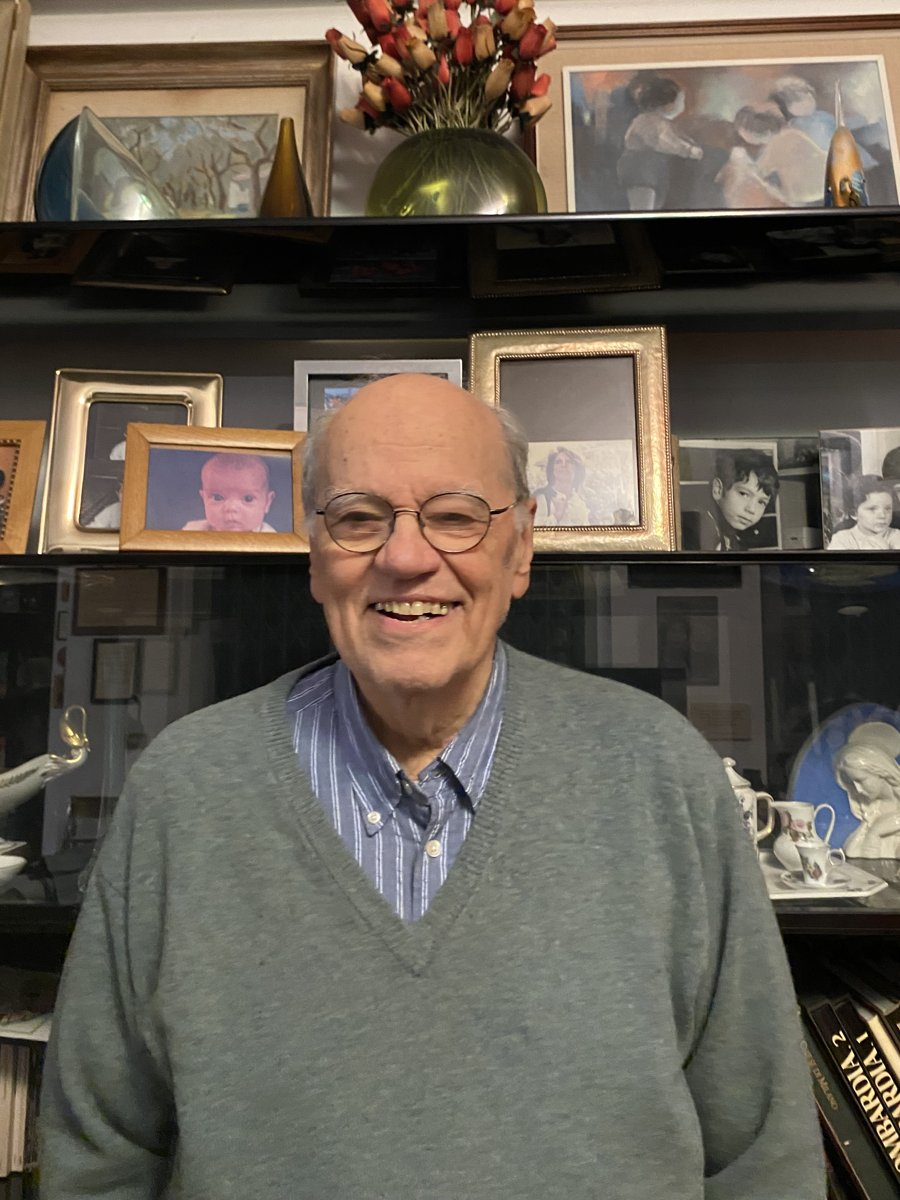
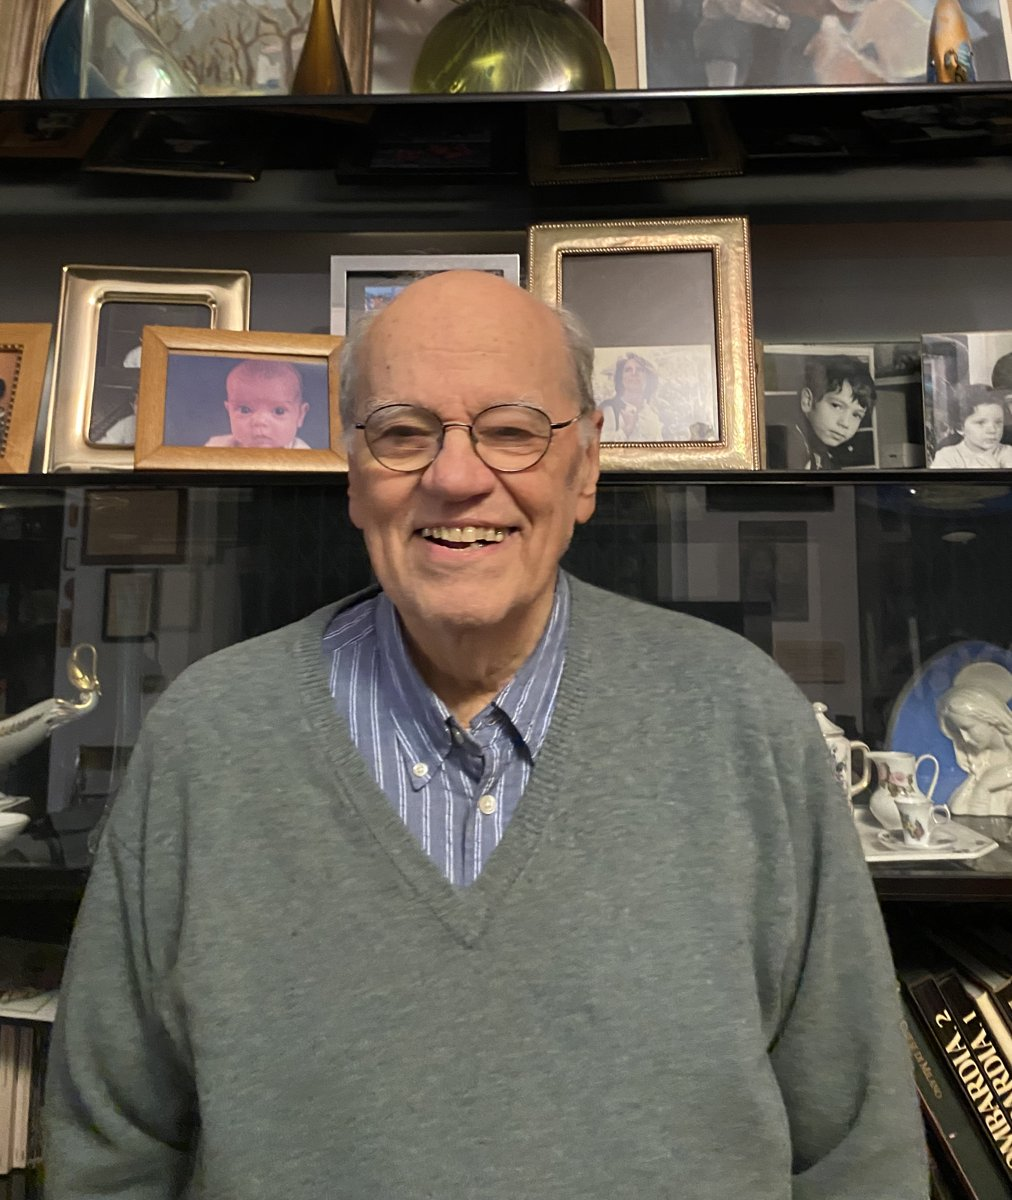
Move the present-day portrait beside the biography
Re-crop peppino-oggi.jpg a little higher to make it less bulky and lay
the biography out in two columns on desktop (text plus the framed
portrait alongside), stacking to one column on mobile.

diff --git a/index.html b/index.html
@@ -89,6 +89,7 @@
 
 <section id="biografia" class="reveal">
   <div class="sec-head"><div class="sec-label">Biografia</div><h2>Il racconto di una vita</h2></div>
+  <div class="bio-grid">
   <div class="bio">
     <p>Peppino Zola — all'anagrafe Giuseppe Roberto Mario — nasce a Viverone, nel Biellese, il 30 aprile 1939. Nel 1947 la famiglia si trasferisce a Milano, dove il padre Angelo è per anni capo barman al Principe di Savoia e presidente dell'associazione nazionale e internazionale dei barmen.</p>
     <p>Al Liceo Berchet, tra il 1955 e il 1958, incontra come insegnante di religione don Luigi Giussani: un incontro decisivo per tutta la vita, nell'appartenenza prima a Gioventù Studentesca e poi a Comunione e Liberazione. Nel 1963 si laurea in Giurisprudenza alla Statale di Milano con una tesi sulla Dichiarazione Universale dei Diritti dell'Uomo.</p>
@@ -97,9 +98,10 @@
     <p>Tra il 1999 e il 2001 presiede il collegio commissariale che guida l'Ente Fiera Milano nella sua transizione, avviando la riforma che porterà alla Fondazione Fiera Milano e al nuovo polo fieristico. Dal 2011 al 2014 è componente della sezione regionale di controllo della Corte dei conti per la Lombardia. Nel 2014, nonno di sette nipoti, fonda NONNI2.0. Nel 2026 pubblica «Carissimo don Gius» (Edizioni Ares).</p>
   </div>
   <figure class="portrait bio-portrait">
-    <img src="assets/img/peppino-oggi.jpg" alt="Peppino Zola oggi, sorridente nel suo studio tra le fotografie di famiglia" width="900" height="1200" loading="lazy">
+    <img src="assets/img/peppino-oggi.jpg" alt="Peppino Zola oggi, sorridente nel suo studio tra le fotografie di famiglia" width="1012" height="1200" loading="lazy">
     <figcaption>Peppino Zola oggi</figcaption>
   </figure>
+  </div>
 </section>
 
 <section id="incarichi" class="reveal">

diff --git a/assets/css/style.css b/assets/css/style.css
@@ -43,7 +43,9 @@ nav a:hover,nav a:focus-visible{color:var(--gold)}
 .portrait::after{content:"";position:absolute;inset:6px;border:1px solid var(--gold);pointer-events:none;opacity:.5}
 .portrait img{width:100%;height:auto;display:block;filter:grayscale(.1) contrast(1.02)}
 .portrait figcaption{margin-top:10px;font-style:italic;font-size:15px;color:var(--muted);text-align:center}
-.bio-portrait{max-width:340px;margin:46px auto 0}
+.bio-grid{display:grid;grid-template-columns:1.5fr .82fr;gap:46px;align-items:start}
+.bio-grid .bio{max-width:none}
+.bio-portrait{margin:6px 0 0}
 .bio-portrait img{filter:none}
 
 /* sections */
@@ -153,6 +155,8 @@ html.js .reveal.in{opacity:1;transform:none}
   nav.open{display:flex}
   nav a{padding:14px 32px}
   .hero-grid,.book{grid-template-columns:1fr;gap:34px}
+  .bio-grid{grid-template-columns:1fr;gap:30px}
+  .bio-portrait{max-width:360px;margin:4px auto 0}
   .portrait{max-width:400px}
   .tl::before{left:22px}
   .tl-item{width:100%;left:0!important;text-align:left!important;padding:14px 0 14px 52px}
